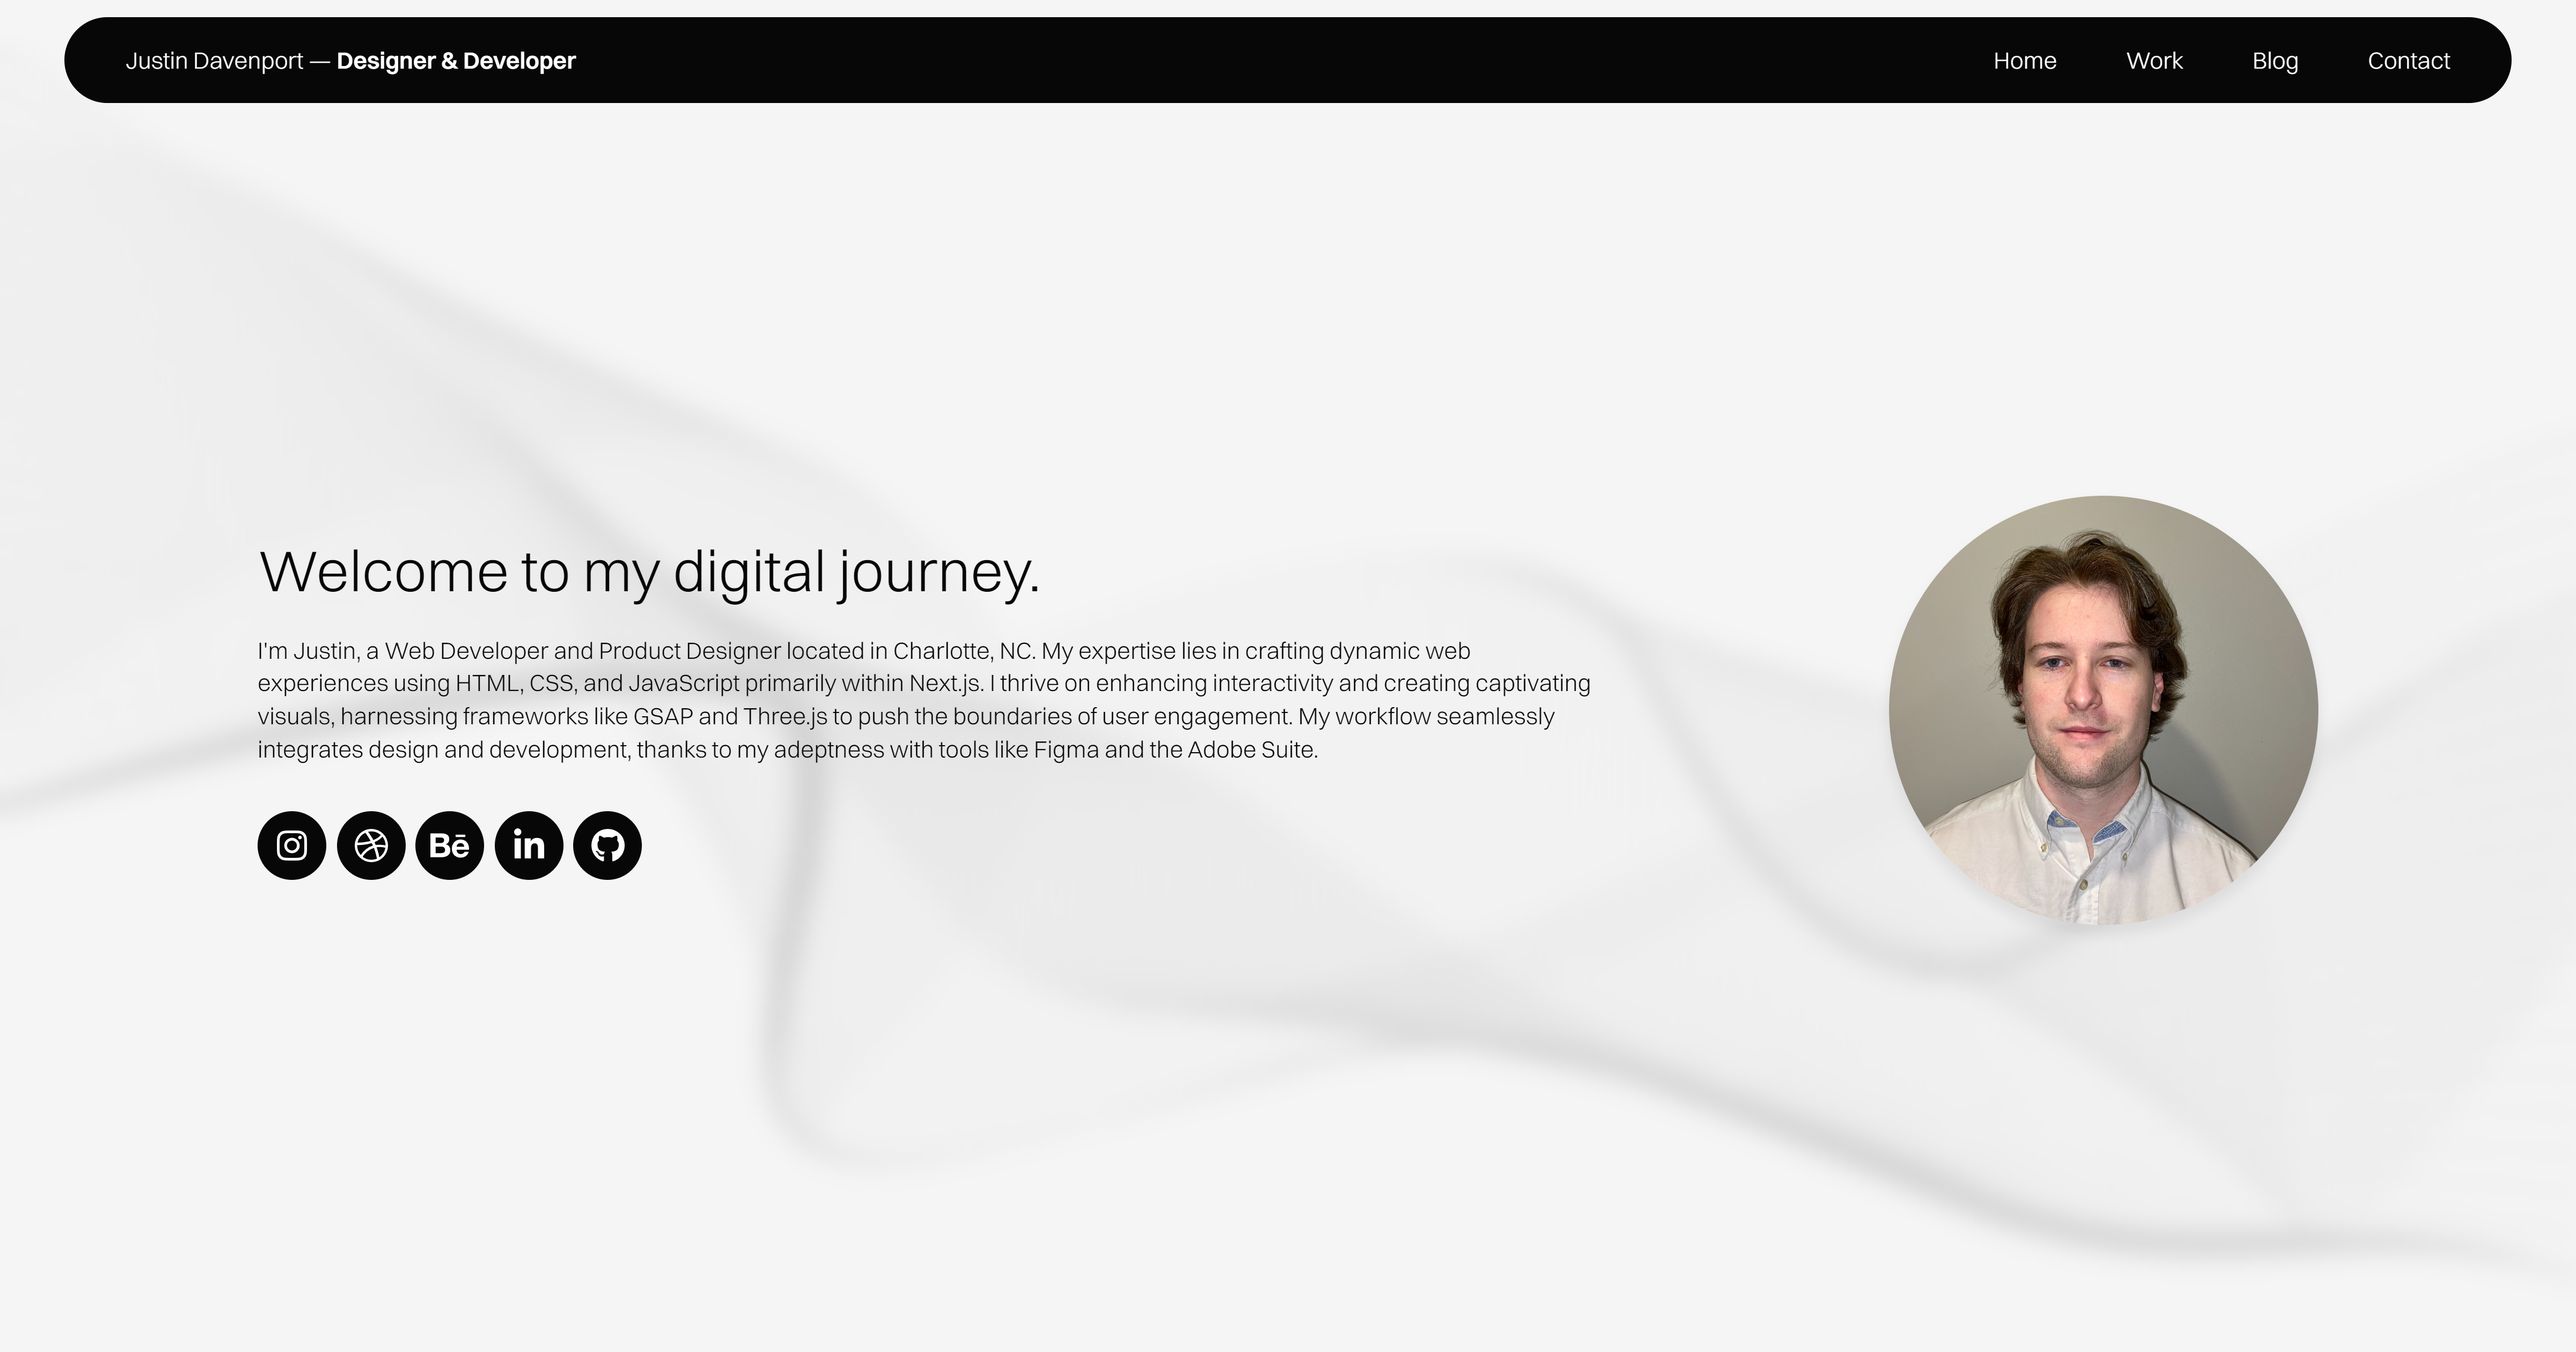
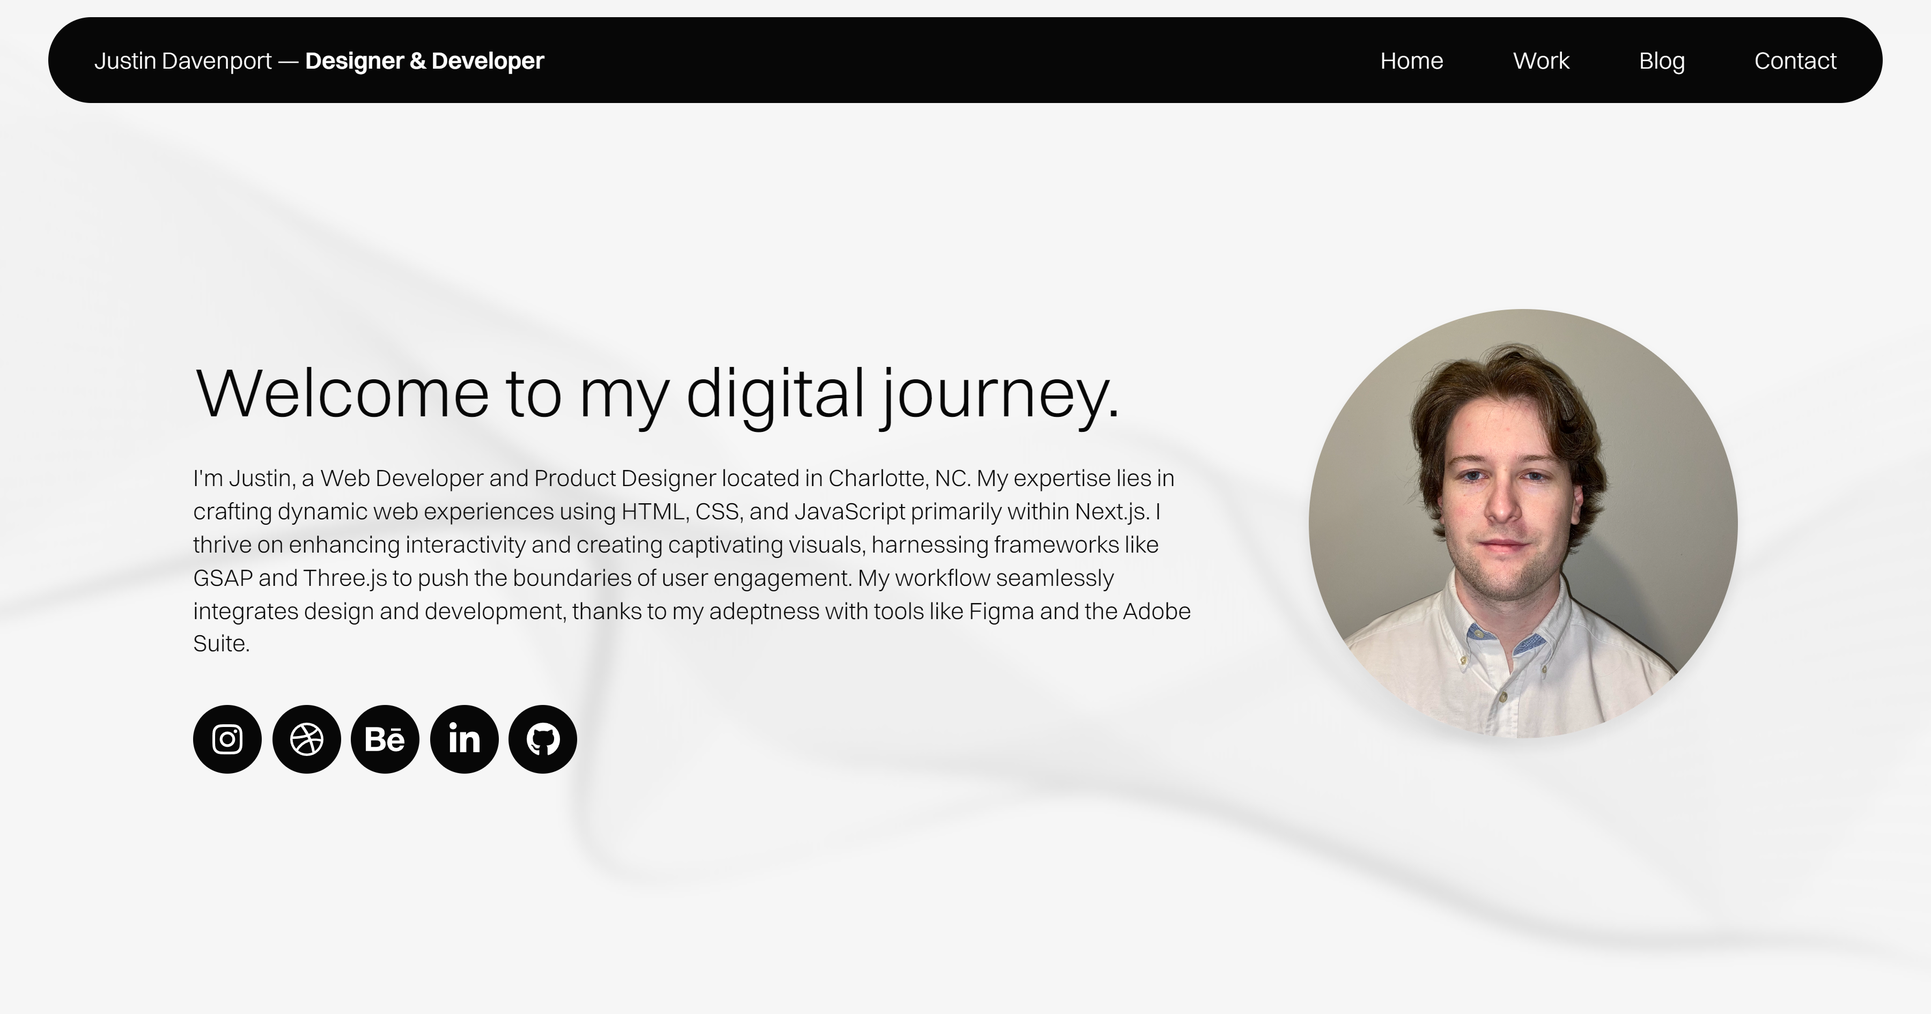
.

diff --git a/src/app/page.tsx b/src/app/page.tsx
@@ -3,10 +3,8 @@ import { useEffect, useRef, useState } from "react";
 import Link from "next/link";
 
 export default function Home() {
-  const aboutDiv = useRef<HTMLDivElement>(null);
   const workDiv = useRef<HTMLDivElement>(null);
   const blogDiv = useRef<HTMLDivElement>(null);
-  const contactDiv = useRef<HTMLDivElement>(null);
 
   const scrollTo = (ref: React.RefObject<HTMLDivElement>) => {
     if (ref.current) {
@@ -54,13 +52,7 @@ export default function Home() {
               </b>
             </p>
             <div className="nav-links">
-              {/* <button
-                onClick={() => window.scrollTo({ top: 0, behavior: "smooth" })}
-              >
-                Home
-              </button> */}
               <button
-                // onClick={() => scrollTo(aboutDiv)}
                 onClick={() => window.scrollTo({ top: 0, behavior: "smooth" })}
               >
                 Home
@@ -68,7 +60,6 @@ export default function Home() {
               <button onClick={() => scrollTo(workDiv)}>Work</button>
               <button onClick={() => scrollTo(blogDiv)}>Blog</button>
               <button
-                // onClick={() => scrollTo(contactDiv)}
                 onClick={() =>
                   window.scrollTo({
                     top: document.documentElement.scrollHeight,
@@ -91,17 +82,16 @@ export default function Home() {
           backgroundPosition: "top center",
           backgroundRepeat: "no-repeat",
           backgroundSize: "100% 100%",
-          mixBlendMode: "multiply",
           position: "fixed",
-          opacity: "0.15",
+          opacity: "0.1",
         }}
       ></div>
       <div
         style={{
           width: "100%",
           height: "100vh",
-          backdropFilter: "blur(12px)",
-          WebkitBackdropFilter: "blur(12px)",
+          backdropFilter: "blur(8px)",
+          WebkitBackdropFilter: "blur(8px)",
           position: "fixed",
         }}
       ></div>
@@ -289,7 +279,6 @@ export default function Home() {
         style={{ minHeight: "0", marginBottom: "0" }}
       >
         <div className="container" style={{ paddingTop: "8rem" }} ref={workDiv}>
-          {/* <span className="header">WORK</span> */}
           <h2>A collection of my recent work.</h2>
         </div>
       </div>
@@ -617,8 +606,7 @@ export default function Home() {
         style={{ minHeight: "0", marginBottom: "0" }}
       >
         <div className="container" style={{ paddingTop: "8rem" }} ref={blogDiv}>
-          {/* <span className="header">WORK</span> */}
-          <h2>A collection of recent posts.</h2>
+          <h2>Explore my recent articles.</h2>
         </div>
       </div>
 
@@ -638,7 +626,6 @@ export default function Home() {
               flexDirection: "column",
               justifyContent: "center",
               marginBottom: "2rem",
-              alignItems: "center",
             }}
           >
             <Link
@@ -656,9 +643,9 @@ export default function Home() {
               />
             </Link>
             <br />
-            <span>Article</span>
+            <span>Create a Product Landing Page with GSAP in Next.js</span>
             <p>
-              Create a product landing page with GSAP in Next.js &middot;{" "}
+              Tutorial &middot;{" "}
               <b
                 style={{
                   lineHeight: "0",
@@ -666,25 +653,12 @@ export default function Home() {
                   fontSize: "clamp(14px, 4vw, 18px)",
                 }}
               >
-                Next.js, GSAP
+                2024
               </b>
             </p>
           </div>
         </div>
       </div>
-
-      {/* <div
-        className="container-holder"
-        style={{ minHeight: "0", marginBottom: "0" }}
-      >
-        <div
-          className="container"
-          style={{ paddingTop: "8rem" }}
-          ref={contactDiv}
-        >
-          <span className="header">CONTACT</span>
-        </div>
-      </div> */}
 
       <div
         className="container-holder"

diff --git a/src/app/globals.css b/src/app/globals.css
@@ -60,7 +60,7 @@
   h2 {
     font-weight: 300;
     line-height: 1.4;
-    font-size: clamp(28px, 4vw, 54px);
+    font-size: clamp(28px, 4vw, 64px);
   }
 
   p {
